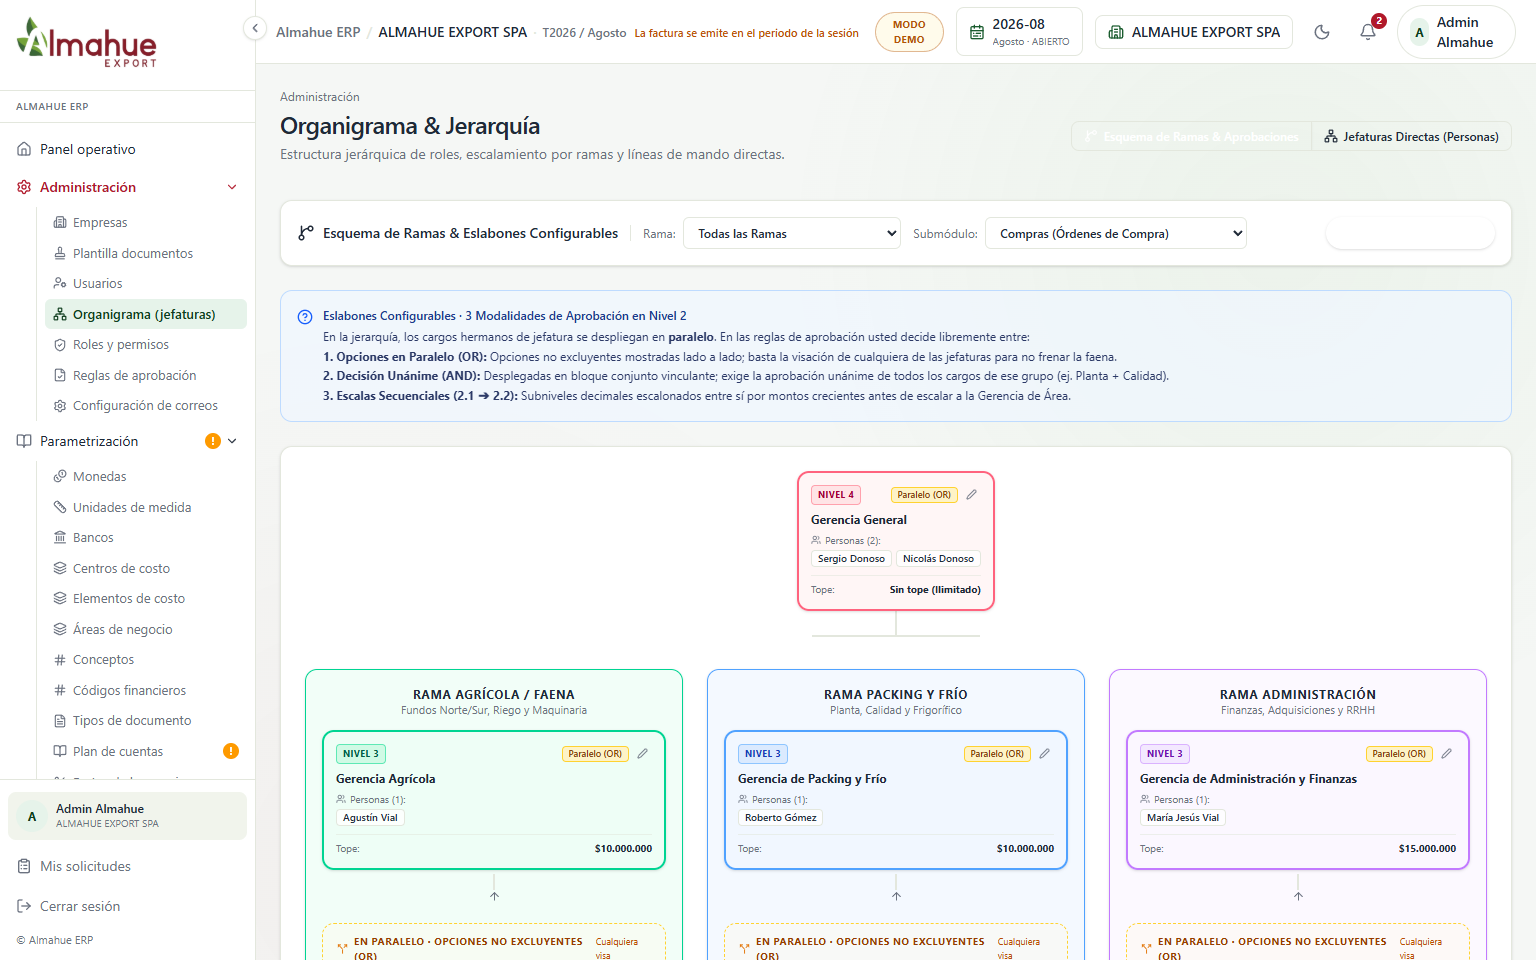
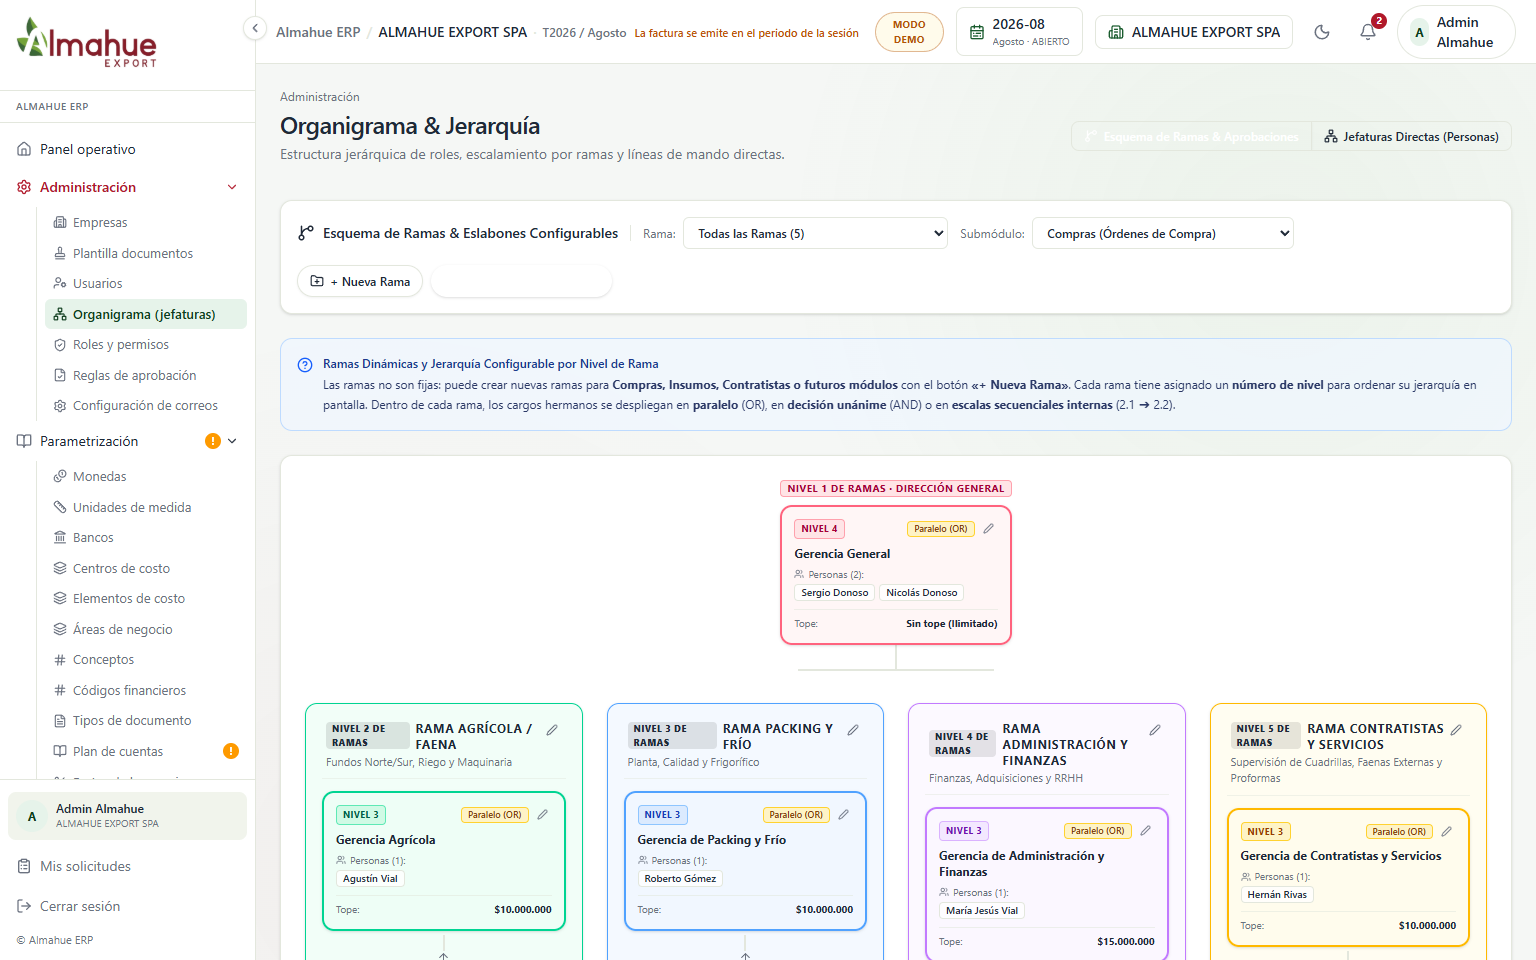
docs(acuerdos): capturas 1536x960, visores y documentacion de ramas dinamicas con nivel de rama

diff --git a/docs/sesiones/acuerdos-sala-2026-11-06/comparacion.html b/docs/sesiones/acuerdos-sala-2026-11-06/comparacion.html
@@ -203,6 +203,21 @@
     <p class="nota">Los nombres de cada eslabón y cargo no son predefinidos sino 100% configurables por el usuario. El modal permite editar el nombre exacto de la jefatura, código, nivel jerárquico (entero o decimal como 2.1/2.2), la <strong>Modalidad de Aprobación en Reglas</strong> (Paralelo OR, Unánime AND, Escalonado), a qué eslabón superior escala (padre), topes multimoneda y la asignación interactiva de personas al cargo.</p>
   </section>
 
+  <section>
+    <h2>12. Admin - Creación Dinámica de Ramas y Asignación de Nivel de Rama</h2>
+    <div class="pair">
+      <figure class="antes">
+        <figcaption>Antes</figcaption>
+        <img src="antes-esquema-ramas-aprobacion.png" alt="Estructura fija y sin posibilidad de añadir ramas operativas adicionales" />
+      </figure>
+      <figure class="despues">
+        <figcaption>Después</figcaption>
+        <img src="despues-modal-nueva-rama-marcado.png" alt="Modal Nueva Rama con campo Nivel de Rama numérico, código, nombre, subtítulo y módulos asignados" />
+      </figure>
+    </div>
+    <p class="nota">El sistema permite crear libremente nuevas ramas para cubrir módulos presentes o futuros (ej. Contratistas, Insumos, Bodegas, Exportaciones). Cada rama cuenta con un campo numérico explícito de <strong>Nivel de Rama</strong> (1, 2, 3, 4, 5...) que organiza la jerarquía y el organigrama de manera ordenada. Además, se eliminó por completo todo rastro de los 20 grupos anteriores y barras legadas, dejando una arquitectura modular y escalable.</p>
+  </section>
+
   <div class="visor" id="visor" hidden>
     <div class="visor-bar">
       <strong id="visor-titulo"></strong>

diff --git a/docs/sesiones/acuerdos-sala-2026-11-06/recorrido.html b/docs/sesiones/acuerdos-sala-2026-11-06/recorrido.html
@@ -168,6 +168,17 @@
           { x: 50.0, y: 38.0, t: "Modalidad de Aprobación & Nivel Decimal", d: "Permite configurar si el eslabón opera como Opción en Paralelo (OR), Decisión Unánime (AND) o Escala Secuencial (2.1 ➔ 2.2), ingresando niveles enteros o decimales." },
           { x: 50.0, y: 64.0, t: "Asignación Dinámica de Personas", d: "Permite asociar y desasociar personas directamente al eslabón con topes multimoneda y línea de mando automática." }
         ]
+      },
+      {
+        mod: "Admin", cls: "param",
+        title: "12. Creación Dinámica de Ramas & Nivel de Rama",
+        img: "despues-modal-nueva-rama.png",
+        alt: "Modal para dar de alta ramas dinámicas con número de nivel jerárquico",
+        pins: [
+          { x: 45.0, y: 34.0, t: "Nivel de la Rama", d: "Campo numérico para indicar el nivel jerárquico de la rama (1, 2, 3, 4, 5...) para organizar visual y operativamente el organigrama y las cadenas." },
+          { x: 50.0, y: 44.0, t: "Identificación de la Rama", d: "Código, nombre y subtítulo totalmente personalizables (ej. Rama Contratistas, Rama Packing, Rama Bodega)." },
+          { x: 50.0, y: 60.0, t: "Módulos Aplicables", d: "Asigna qué módulos del ERP (Compras, Contratistas, Insumos, etc.) operan bajo las cadenas de esta rama." }
+        ]
       }
     ];
 

diff --git a/docs/requerimientos/acuerdos-por-dia/2026-11-06-acuerdos.md b/docs/requerimientos/acuerdos-por-dia/2026-11-06-acuerdos.md
@@ -18,7 +18,9 @@
 - Recetas de embalaje en Insumos con selector y filtro por Centro de Costo (desvinculada de un packing único).
 - Bloqueo de emisión en OC de Compras si el monto excede el tope máximo del último aprobador de la escala.
 - Unificación jerárquica de roles, usuarios y reglas de aprobación en un esquema de árbol/ramas (acuerdo documento Word + audio María Jesús del 05/11):
-  - Eliminación de los "20 grupos artificiales" repetitivos.
+  - **Eliminación total del rastro de configuración anterior**: se removieron de backend y frontend las barras obsoletas (botones "Niveles", "Árbol de Grupos", inputs huérfanos y slide panels de 20 grupos). La vista `/admin/aprobaciones` queda 100% montada sobre `EsquemaRamasAprobacion`, demostrando cobertura completa de las reglas previas con mucha mayor claridad.
+  - **Creación Dinámica de Ramas y Asignación de Nivel de Rama**: el usuario puede crear cualquier cantidad de ramas adicionales mediante el botón `+ Nueva Rama` (para módulos actuales o futuros como Contratistas, Insumos, Bodegas, Compras, etc.). Cada rama cuenta con un campo numérico explícito de **Nivel de Rama** (1, 2, 3, 4, 5...) que organiza y categoriza la jerarquía de ramas en el organigrama.
+  - **Ejemplo demo de nueva rama**: Rama Contratistas y Servicios de Cosecha (Nivel 5 de Ramas), con sus cargos de Gerencia de Contratistas, Jefatura Norte, Jefatura Sur y Asistente.
   - **Nombres de eslabones 100% configurables** (no predefinidos): el usuario puede crear, editar el nombre exacto de la jefatura, código, nivel, definir a qué eslabón superior escala y asignar personas libremente.
   - **Despliegue horizontal en Paralelo de cargos de Nivel 2**: las jefaturas hermanas ya no se apilan en una falsa cascada vertical con flechas consecutivas, sino que se despliegan en paralelo colgando de la Gerencia de Área (Nivel 3).
   - **3 Modalidades de Aprobación en Reglas configurables**:
